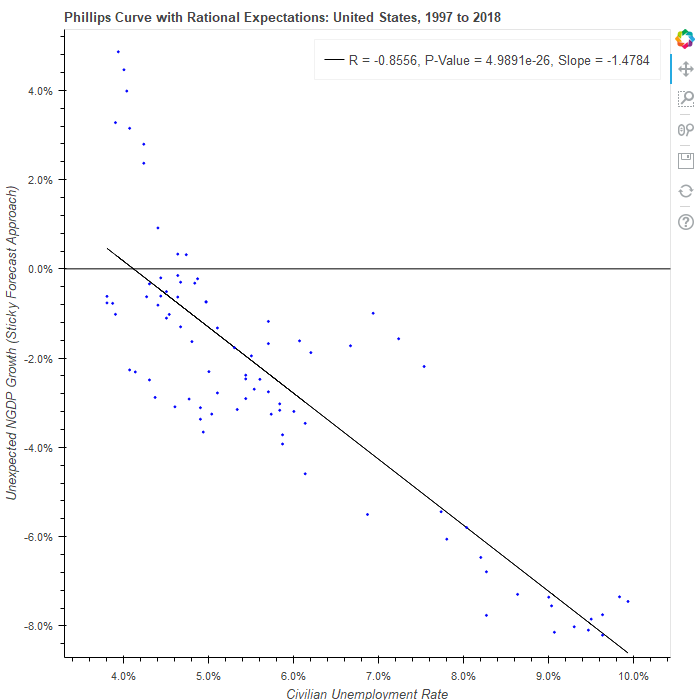
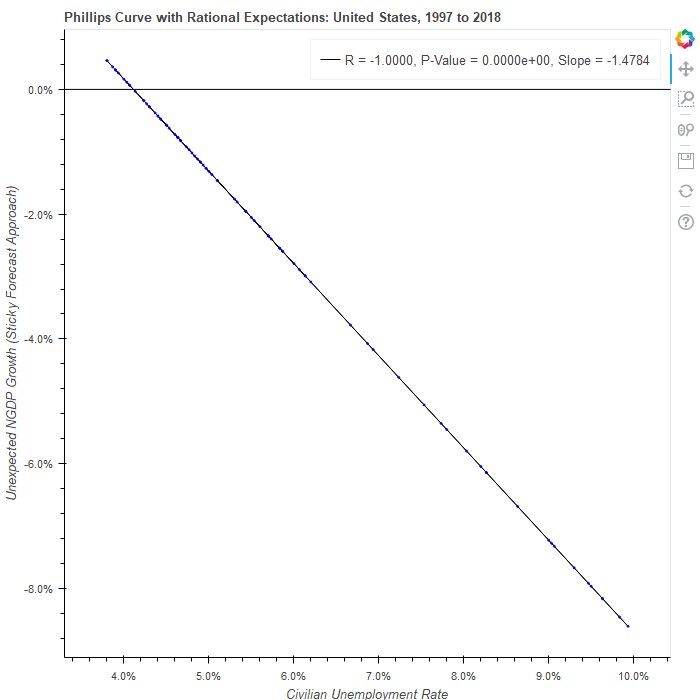
tested some Durbin-Watson scripts

diff --git a/images/stickyPCurve.html b/images/stickyPCurve.html
@@ -35,14 +35,14 @@
           
           
             
-              <div class="bk-root" id="5e8207df-f7b9-4449-9d35-29e88378e288" data-root-id="1802"></div>
+              <div class="bk-root" id="9ca67bf3-9cfe-43f4-a317-23fcd3767060" data-root-id="4548"></div>
             
           
         
       
       
-        <script type="application/json" id="2307">
[1 lines of base64/hex data omitted]
+        <script type="application/json" id="5053">
[1 lines of base64/hex data omitted]
         </script>
         <script type="text/javascript">
           (function() {
@@ -51,8 +51,8 @@
                 (function(root) {
                   function embed_document(root) {
                     
-                  var docs_json = document.getElementById('2307').textContent;
-                  var render_items = [{"docid":"6eaf0f54-3292-4359-a90b-be50b18115b8","roots":{"1802":"5e8207df-f7b9-4449-9d35-29e88378e288"}}];
+                  var docs_json = document.getElementById('5053').textContent;
+                  var render_items = [{"docid":"78714d82-32fb-4863-8561-cc4fb7874355","roots":{"4548":"9ca67bf3-9cfe-43f4-a317-23fcd3767060"}}];
                   root.Bokeh.embed.embed_items(docs_json, render_items);
                 
                   }

diff --git a/forecast_script.py b/forecast_script.py
@@ -121,6 +121,7 @@ def chart_gap_ser(df):
     p.line(xrng,[0,0], color = 'black')
     
     p.line(xdata,ydata, color = 'blue', legend = 'Sticky-forecast of NGDP')
+    p.line(xdata,df['UNRATE'], color = 'red', legend = 'Unemployment Rate')
     
     p.xaxis[0].ticker.desired_num_ticks = 10
     p.legend.location = 'bottom_right'
@@ -130,7 +131,26 @@ def chart_gap_ser(df):
     export_png(p,'images/NGDP_gap.png')
 
     return p
+def chart_serial_corr(df):
+    xdata, ydata, xrng, yrng = set_up(df.index, df['error'], truncated = False)
+    
+    p = figure(width = 1000, height = 700,
+               title="Sticky Forecast of NGDP" , 
+               x_axis_label = 'Date', x_axis_type = 'datetime',
+               y_axis_label = 'Error', 
+               y_range = yrng, x_range = xrng)
+    p.line(xrng,[0,0], color = 'black')
+    
+    p.line(xdata,ydata, color = 'blue', legend = 'Residual')
+    
+    p.xaxis[0].ticker.desired_num_ticks = 10
+    p.legend.location = 'bottom_right'
+    p.ygrid.grid_line_color = None
+    p.yaxis.formatter=NumeralTickFormatter(format="0.0%")
 
+    export_png(p,'images/error_ser.png')
+
+    return p
 def chart_philips_curve(df):
     xdata, ydata, xrng, yrng = set_up(df['UNRATE'], df['GAP'], 
                                       truncated = False, margins = .005)
@@ -172,8 +192,10 @@ rgdp = rgdp.set_index(ind)
 
 df['RGDP'] = rgdp['RGDP'].astype(float)/100
 df = df.dropna()
+slope, intercept, r_value, p_value, std_err = stats.linregress(df['UNRATE'], df['GAP'])
+df['error'] = df['GAP'] = (slope*df['UNRATE'] + intercept)
 
-ps = [chart_NGDP_ser(df), chart_gap_ser(df), chart_philips_curve(df)]
+ps = [chart_NGDP_ser(df), chart_serial_corr(df), chart_philips_curve(df)]
 
 output_file("images/stickyPCurve.html")
 show(column(row(ps[0],ps[1]),ps[2]))
